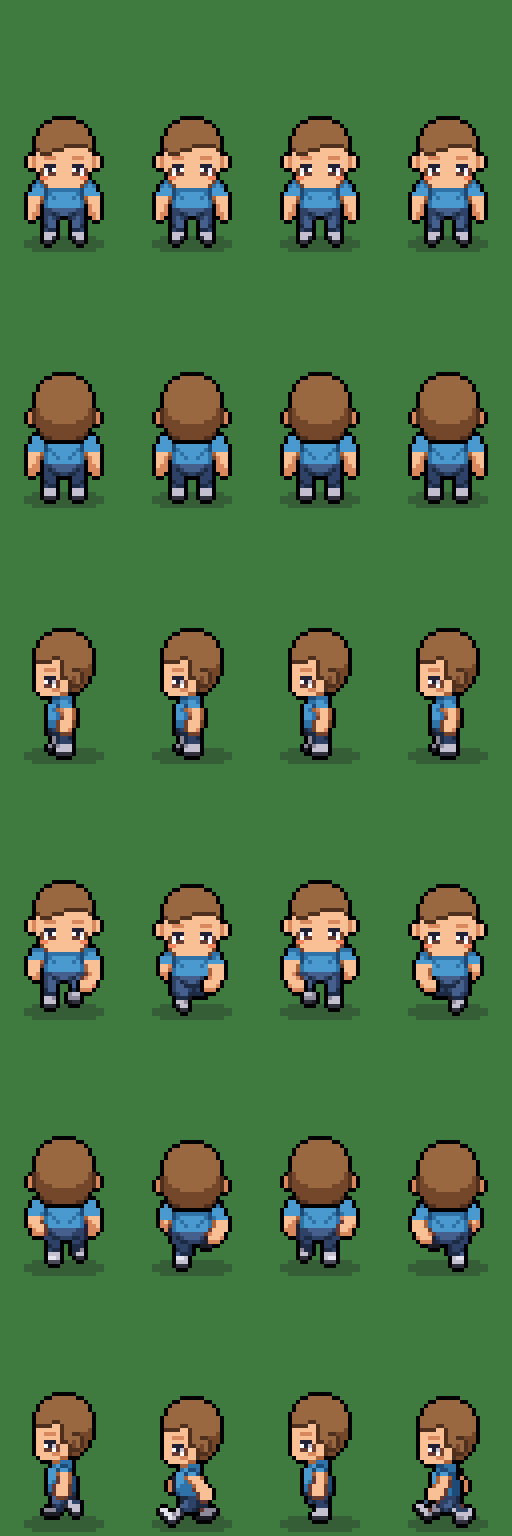
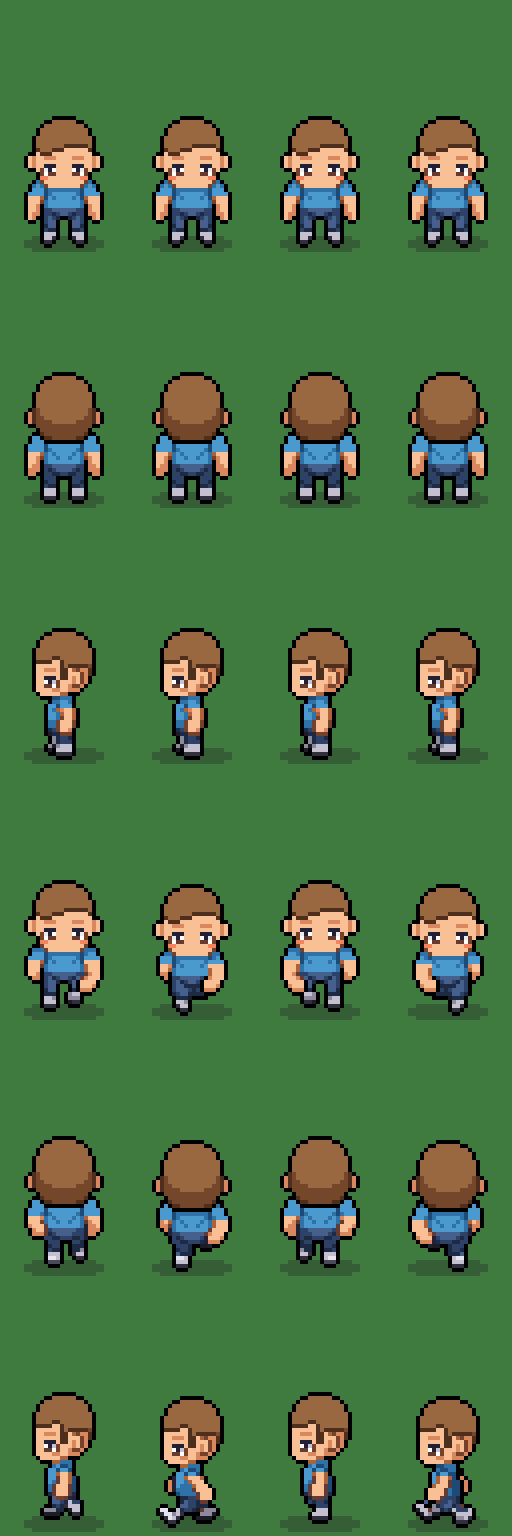
Hair: ears always visible
isEar() (measured from the reference head, front/back/side) is excluded from
every hair style, including the long-hair back layer that is drawn over the
head in the back view.

Claude-Session: https://claude.ai/code/session_01AuTfW4RY5hqwpF1mFtvoZZ

diff --git a/scripts/gen-placeholders.ts b/scripts/gen-placeholders.ts
@@ -392,6 +392,8 @@ const drawers: Record<string, Drawer> = {
     if (f.dir === "down") r.round(h.x, h.y + 8, h.w, 16, 2);
     else if (f.dir === "up") r.round(h.x, h.y + 6, h.w, 18, 3);
     else r.round(h.x + 8, h.y + 6, 9, 17, 2);
+    // ears stay visible (this layer is drawn over the head in the back view)
+    for (let y = 0; y < FRAME_H; y++) for (let x = 0; x < FRAME_W; x++) if (isEar(f, x, y)) r.px(x, y, false);
   },
   "hair/hair_bun_01.png": (f) => {
     const h = f.p.head;
@@ -532,21 +534,28 @@ function hairDetail(f: Frame, r: Region) {
   }
 }
 
+/** Ear pixels (measured from the reference head) — hair never covers them. */
+function isEar(f: Frame, x: number, y: number): boolean {
+  const h = f.p.head;
+  if (f.dir === "left") return x >= h.x + 9 && x <= h.x + 13 && y >= h.y + 10 && y <= h.y + 15;
+  return (x <= h.x + 1 || x >= h.x + h.w - 2) && y >= h.y + 9 && y <= h.y + 12;
+}
+
 function hairCap(f: Frame, sideLen: number) {
   const { p } = f;
   const h = p.head;
   const r = f.headReg("primary");
   const headBottom = HEAD_BOTTOM[f.dir] + p.m.headDy;
+  const ear = (x: number, y: number) => isEar(f, x, y);
   if (f.dir === "down") {
-    fromHead(r, p, (x, y) => y <= h.y + 7 || (y <= h.y + 6 + sideLen && (x <= h.x + 3 || x >= h.x + h.w - 4)));
+    fromHead(r, p, (x, y) => !ear(x, y) && (y <= h.y + 7 || (y <= h.y + 6 + sideLen && (x <= h.x + 3 || x >= h.x + h.w - 4))));
     r.rect(h.x + 4, h.y + 8, 6, 1).rect(h.x + 4, h.y + 9, 3, 1); // swept fringe
   } else if (f.dir === "up") {
-    // the whole back of the head is hair, down to the nape; only the ears stay skin
-    const isEar = (x: number, y: number) => (x <= h.x + 1 || x >= h.x + h.w - 2) && y >= h.y + 9 && y <= h.y + 12;
-    fromHead(r, p, (x, y) => y <= headBottom + 2 && !isEar(x, y)); // +2: covers the nape down to the collar
+    // the whole back of the head is hair, down to the collar; the ears stay visible
+    fromHead(r, p, (x, y) => y <= headBottom + 2 && !ear(x, y));
   } else {
-    // top + the whole back half of the head down to the nape
-    fromHead(r, p, (x, y) => y <= h.y + 7 || (x >= h.x + 9 && y <= headBottom) || (x >= h.x + 7 && y <= h.y + 6 + Math.max(6, sideLen)));
+    // top + the whole back half of the head down to the nape, around the ear
+    fromHead(r, p, (x, y) => !ear(x, y) && (y <= h.y + 7 || (x >= h.x + 9 && y <= headBottom) || (x >= h.x + 7 && y <= h.y + 6 + Math.max(6, sideLen))));
     r.rect(h.x + 1, h.y + 8, 4, 1); // fringe tip
   }
 }

diff --git a/CLAUDE.md b/CLAUDE.md
@@ -40,7 +40,7 @@ Full spec: `docs/spec.md`. Read it before changing anything in `shared/src/spec.
 - Items: `art/characters/items.json` (source) → copied to `client/public/assets/characters/items.json`. An item = slot + parts (layer + sheet) + channels (+ optional `unlock`).
 - Layer draw order per direction: `LAYER_ORDER` in `shared/src/avatar.ts` (facing up, back layers move in front).
 - The base body is split into `body` (torso/limbs) and `head` layers; `head` is drawn above top/outerwear so clothing never covers the chin. The chin/jaw extends below the head rows in the middle columns (`isChin` in `scripts/lib/pose.ts`: row 45 cols 10–21, row 46 cols 11–20) and is part of the head layer; shirts put the chin's cast shadow on row 47.
-- The head is an oval (reference silhouette). Hair and headwear are cut from that silhouette (`fromHead`) and must not grow outside it — otherwise the head reads as round. Use `f.headReg()` for them — it copies the reference head's shade per pixel (`headShades`), so hair/hats carry exactly the reference shading; black outline only on the outer silhouette, the ramp's dark shade where hair meets skin (no black line across the forehead). Hair covers the whole back of the head down to the collar (back view) and the back half of the head (side view); only the face and ears stay skin.
+- The head is an oval (reference silhouette). Hair and headwear are cut from that silhouette (`fromHead`) and must not grow outside it — otherwise the head reads as round. Use `f.headReg()` for them — it copies the reference head's shade per pixel (`headShades`), so hair/hats carry exactly the reference shading; black outline only on the outer silhouette, the ramp's dark shade where hair meets skin (no black line across the forehead). Hair covers the whole back of the head down to the collar (back view) and the back half of the head (side view); only the face and ears stay skin — ears (`isEar`) are never covered by hair, including long hair.
 - Shading comes from the reference pixels themselves: clothing copies the body pixel's shade, hair/hats copy the head's (`headShades`). `volume: true` cel shading is only for drawn shapes (hood, skirt, backpack, cap brim).
 - Compositor bakes each avatar once into a single texture (`client/src/game/avatar/compositor.ts`), cached by appearance.
 
